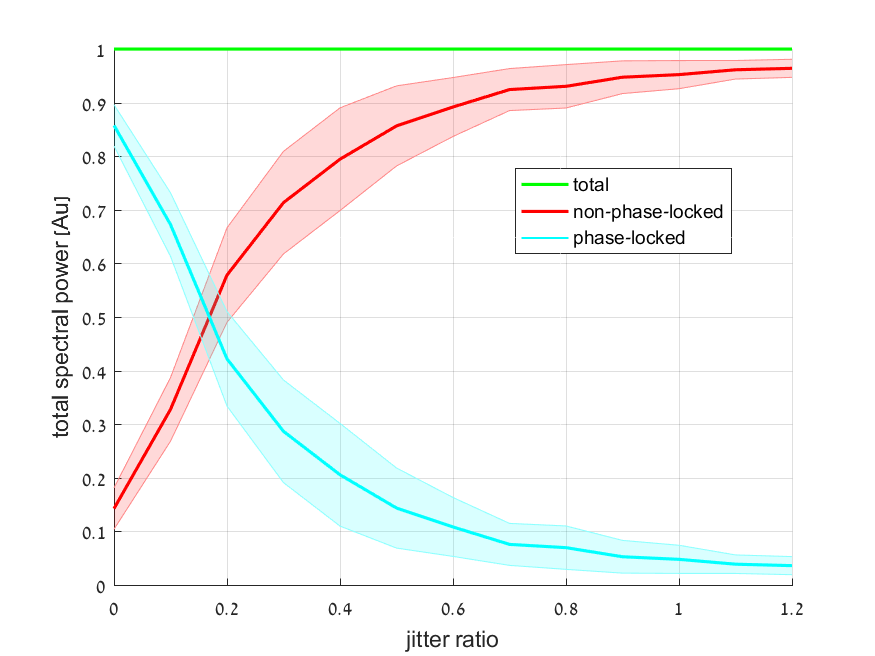
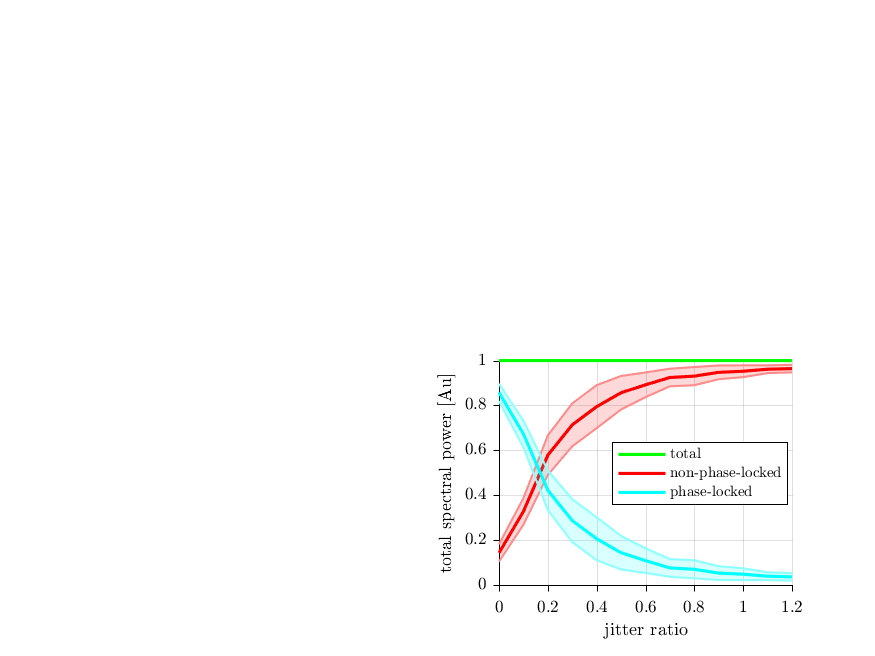
update Fig 4

diff --git a/Generate_final_images/Fig4/Fig4_Show.m b/Generate_final_images/Fig4/Fig4_Show.m
@@ -10,7 +10,8 @@ tot_diff_n = tot_diff./base_factor;
 
 % plt_colors = {'b','g','r','c'};
 figure
-    
+
+subplot(2,2,4)
 % H(1) = stdshade(tot_erp_n, 0.2, 'b', ratio_jitters, 3);
 hold on
 % H(2) = stdshade(tot_orig_n, 0.2, 'g', ratio_jitters, 3);
